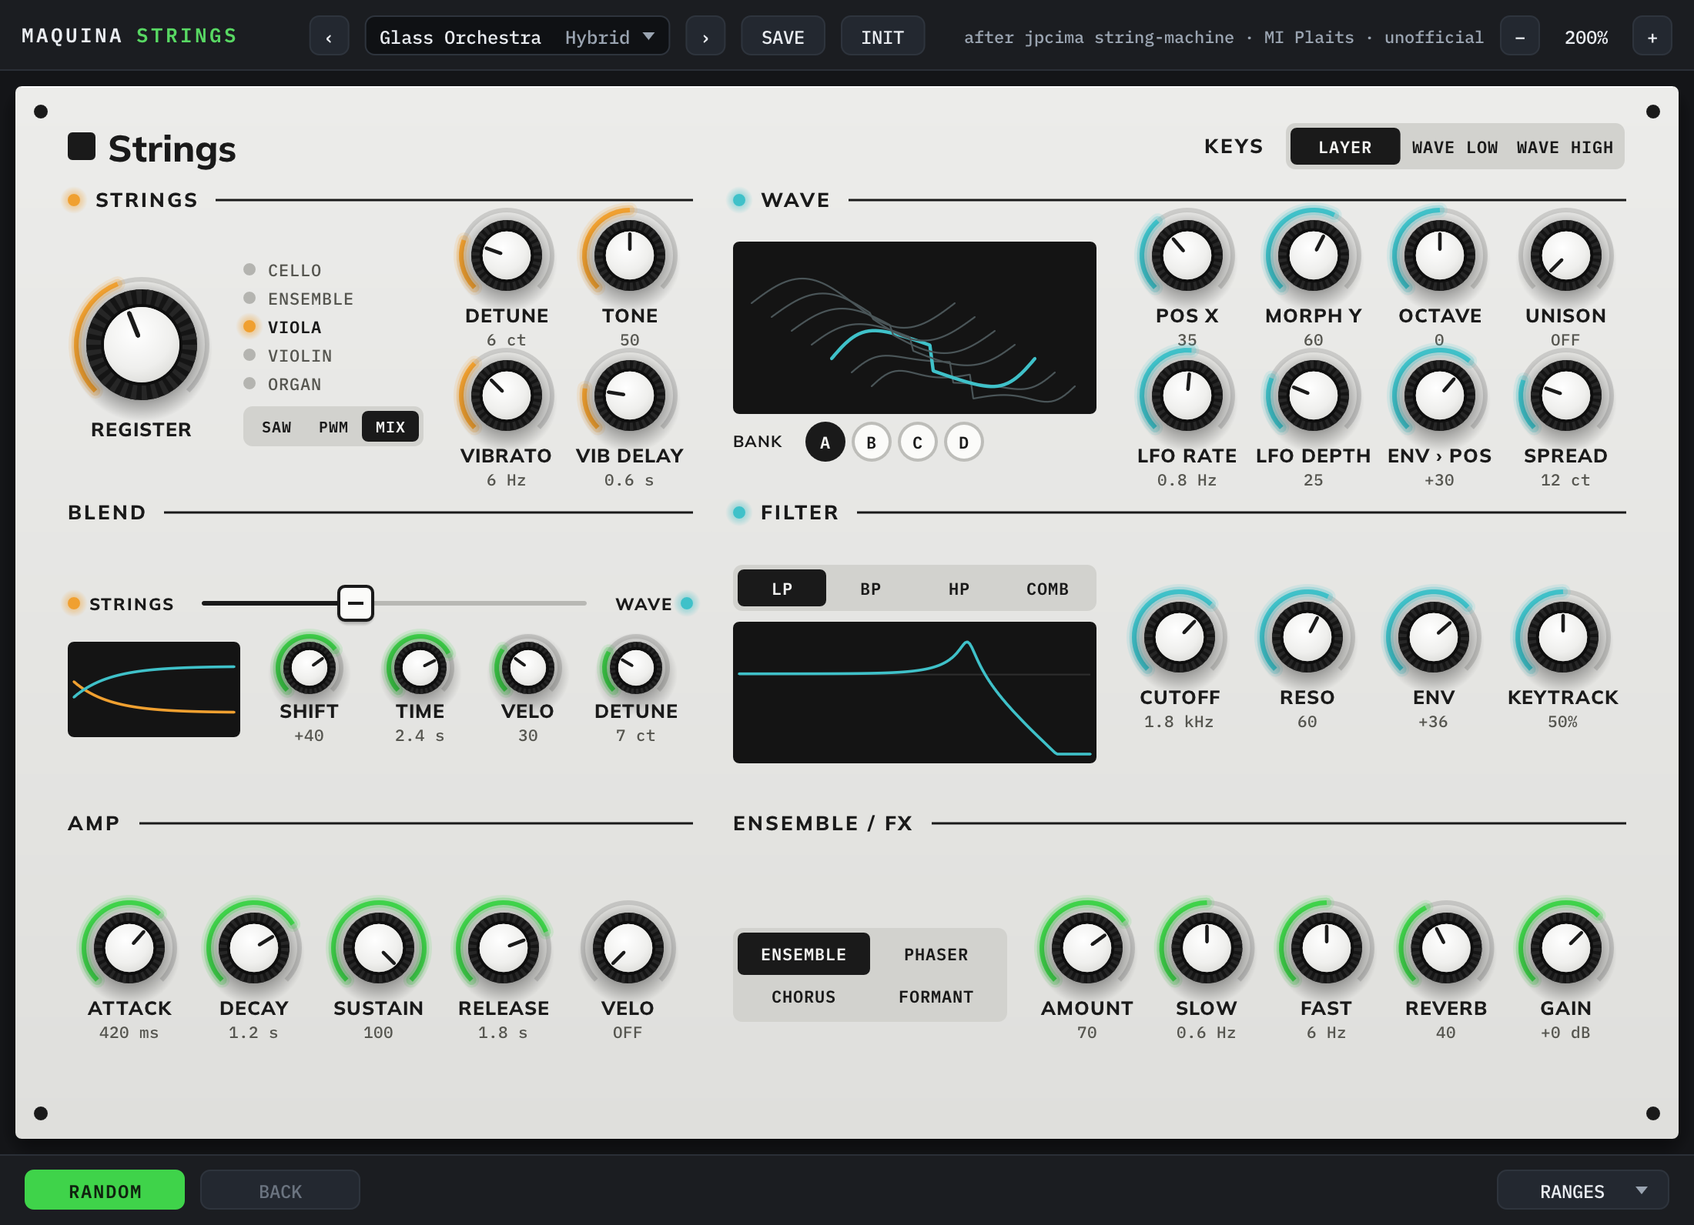
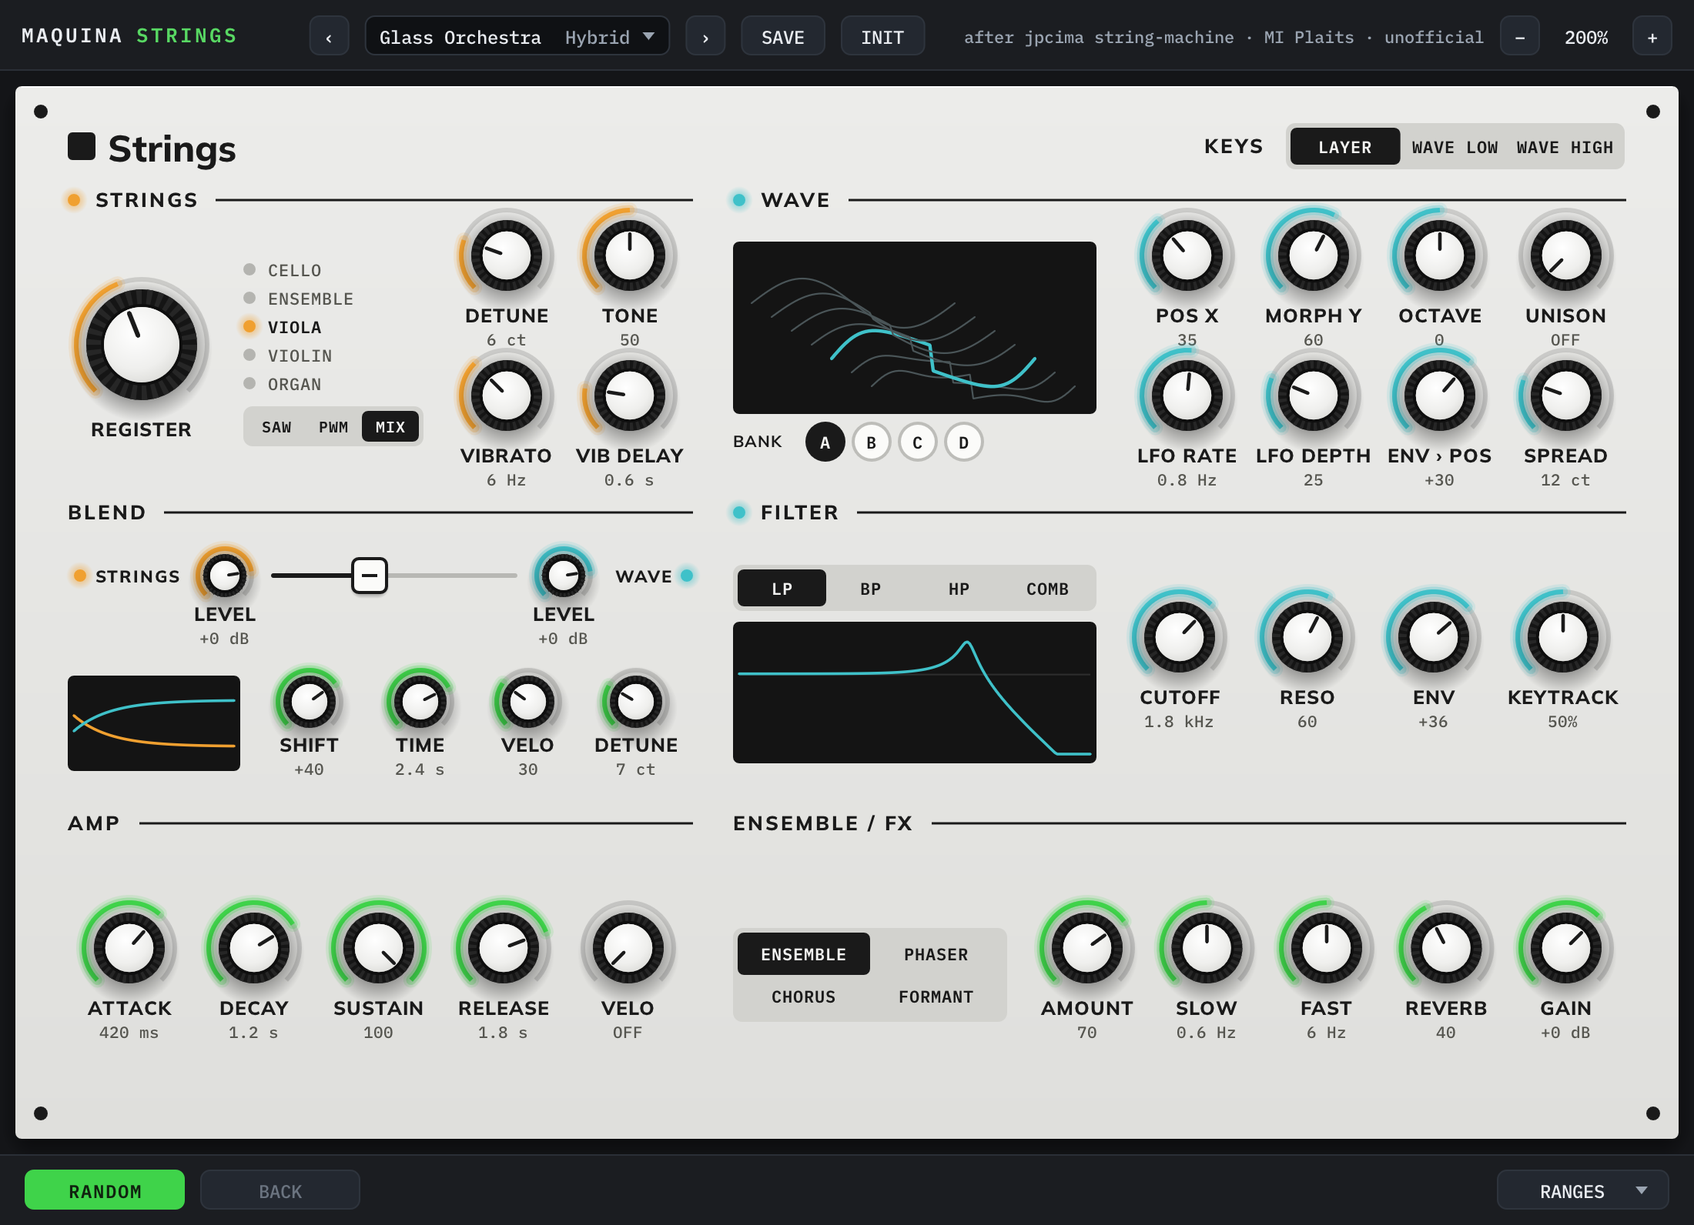
strings: mixer: a level and an on / off switch per layer
Before the blend, each layer has a LEVEL (-24..+6 dB, default 0) and
an on / off switch; a layer switched off is not computed (no CPU).

- parameters strings_on, strings_level, wave_on, wave_level (port group
  MIXER; Machinista / CLAP page MIXER). On / off are performance
  switches like Dredrum's mutes: not in presets, not randomized; the
  levels are a LEVELS randomizer group, locked by default
- editor: BLEND is the mixer row [* STRINGS] (level) === blend ===
  (level) [WAVE *]; the LEDs are the switches (lit = on), a layer's
  knob rings stop glowing while it is off; the blend display and its
  knobs moved down a little
- strings_test: a layer off is silent and never computed, its level
  scales it by exactly -12 dB

Changed region(s): [[0.0309, 0.4309, 0.4327, 0.6464]]

diff --git a/common/DrumUI.cpp b/common/DrumUI.cpp
@@ -159,6 +159,7 @@ bool stringsValueText(const VoiceParam& p, int iv, char* buf, size_t n)
         std::snprintf(buf, n, "%s s", num);
     };
     if (is("detune") || is("layer_detune") || is("wave_spread")) std::snprintf(buf, n, "%d ct", iv);
+    else if (is("strings_level") || is("wave_level")) std::snprintf(buf, n, "%+d dB", iv);
     else if (is("vibrato")) hz(su::vibratoHz(iv));
     else if (is("vib_delay")) { fmtTrim(num, sizeof num, su::vibDelaySeconds(iv), 1); std::snprintf(buf, n, "%s s", num); }
     else if (is("vib_depth") || is("velocity")) { if (iv <= 0) std::snprintf(buf, n, "OFF"); else std::snprintf(buf, n, "%d", iv); }
@@ -379,7 +380,9 @@ struct Ctl {
                           // at ax, ay), RoundSel = round letter buttons at xs[], Stations = REGISTER's
                           // station list (LEDs at ledX, rows from ay, 18.5 px apart), HFader =
                           // horizontal fader (track from ax, bw long, at ay)
-                          Seg, RoundSel, Stations, HFader } look = Plain;
+                          // LedLabel = an on / off switch drawn as an LED (ledX, ay) and its label (left
+                          // of the LED when labelX < 0, else from labelX)
+                          Seg, RoundSel, Stations, HFader, LedLabel } look = Plain;
     // Maquina Strings: the knob ring's LED colour (led = true) and a full-size label on small knobs
     Rgb ledRgb {};
     bool led = false, bigLabel = false;
@@ -1444,6 +1447,7 @@ protected:
             if (y >= y0 && y < y0 + c.bh) setValue(c.param, float(std::min(n - 1, cy * cols + cx)), true);
             return true;
         }
+        case Ctl::LedLabel: setValue(c.param, intOf(int(c.param)) ? 0.f : 1.f, true); return true;
         case Ctl::RoundSel:
             for (int k = 0; k < c.n; ++k)
                 if (std::fabs(x - c.xs[k]) <= 13) { setValue(c.param, float(k), true); return true; }
@@ -1506,6 +1510,15 @@ protected:
         if (!std::strcmp(sym, "filter_reso")) return "Feedback";
         return c.label;
     }
+    // Maquina Strings: a layer's knobs glow only while it is on (strings amber, wave + filter cyan)
+    bool layerLit(Rgb ring) const
+    {
+        if (!maquina::isStrings(voiceDef().voice)) return true;
+        static const int strOn = findParam("strings_on"), waveOn = findParam("wave_on");
+        if (ring.r == 0xf0 && ring.g == 0xa0 && strOn >= 0) return intOf(strOn) != 0;
+        if (ring.r == 0x3f && ring.g == 0xc1 && waveOn >= 0) return intOf(waveOn) != 0;
+        return true;
+    }
     // an 8 px LED (REGISTER's stations, section titles, the blend fader's ends)
     void drawSmallLed(float cx, float cy, bool on, Rgb c)
     {
@@ -1550,7 +1563,8 @@ protected:
         switch (c.look) {
         case Ctl::Plain: { // a knob
             const bool small = c.size < 45 && !c.bigLabel, left = c.labelX > 0;
-            drawKnobStyled(*this, T.knob, c.ax, c.ay, c.size, valueFraction(c.param), hot, c.led ? &c.ledRgb : nullptr);
+            drawKnobStyled(*this, T.knob, c.ax, c.ay, c.size, valueFraction(c.param), hot,
+                           c.led && layerLit(c.ledRgb) ? &c.ledRgb : nullptr);
             label(stringsLabel(c), left ? c.labelX : c.ax, c.labelY, small, left);
             if (c.valueY > 0) value(buf, left ? c.labelX : c.ax, c.valueY, left);
             break;
@@ -1623,6 +1637,20 @@ protected:
                 text(c.ledX + 12, y + 0.5f, t.c_str(), nullptr);
                 textLetterSpacing(0);
             }
+            break;
+        }
+        case Ctl::LedLabel: { // a layer's on / off: its LED lit when on
+            const bool on = intOf(int(c.param)) != 0;
+            drawSmallLed(c.ledX, c.ay, on, c.ledRgb);
+            std::string t = c.label ? c.label : "";
+            for (char& ch : t) ch = char(std::toupper(ch));
+            useFace(*this, "print");
+            fontPx(*this, 11);
+            textLetterSpacing(11 * 0.08f);
+            textAlign((c.labelX < 0 ? ALIGN_RIGHT : ALIGN_LEFT) | ALIGN_MIDDLE);
+            fillColor(col(on ? T.print : Rgb { 0x8d, 0x8d, 0x88 }));
+            text(c.labelX < 0 ? c.ledX - 10 : c.labelX, c.ay + 0.5f, t.c_str(), nullptr);
+            textLetterSpacing(0);
             break;
         }
         case Ctl::HFader: { // the blend fader: dark up to the cap, light after it

diff --git a/tools/strings_test/strings_test.cpp b/tools/strings_test/strings_test.cpp
@@ -4,6 +4,7 @@
 //   pitch       A4 is 440 Hz within 3 cents: strings (Viola), wave layer; 16' (Cello) sounds an
 //               octave down, OCTAVE +1 an octave up
 //   layers      BLEND 0 / 1 computes only that layer; KEYS WAVE LOW / HIGH split at C4
+//   mixer       a layer switched off is silent and not computed; its level scales it
 //   voices      at most 8; a released note ends
 //   vibrato     steady before VIB DELAY, moving after it
 //   fx          every effect mode and the reverb: finite, not silent
@@ -174,6 +175,50 @@ void layerChecks()
                                   : (hiWave && lo.blocksA() > 0 && lo.blocksB() == 0);
         check(ok, keys == 1 ? "layers: KEYS WAVE LOW" : "layers: KEYS WAVE HIGH", "C3 %s, C5 %s",
               loWave ? "wave" : "strings", hiWave ? "wave" : "strings");
+    }
+}
+
+// the mixer: a layer switched off is silent and not computed; its level scales it before the blend
+void mixerChecks()
+{
+    {
+        Engine e(1);
+        Params p = dry();
+        p.blend = 0.f;
+        p.stringsOn = false;
+        e.setParams(p);
+        e.noteOn(60, 100);
+        const std::vector<float> x = render(e, 0.2);
+        check(e.blocksA() == 0 && peakOf(x) == 0.0, "mixer: strings off", "%llu strings blocks, peak %g",
+              (unsigned long long)e.blocksA(), peakOf(x));
+    }
+    {
+        Engine e(1);
+        Params p = dry();
+        p.blend = 1.f;
+        p.waveOn = false;
+        e.setParams(p);
+        e.noteOn(60, 100);
+        const std::vector<float> x = render(e, 0.2);
+        check(e.blocksB() == 0 && peakOf(x) == 0.0, "mixer: wave off", "%llu wave blocks, peak %g",
+              (unsigned long long)e.blocksB(), peakOf(x));
+    }
+    for (int layer = 0; layer < 2; ++layer) {
+        auto rms = [&](float level) {
+            Engine e(1);
+            Params p = dry();
+            p.blend = layer ? 1.f : 0.f;
+            (layer ? p.waveLevel : p.stringsLevel) = level;
+            e.setParams(p);
+            e.noteOn(60, 100);
+            const std::vector<float> x = render(e, 0.5);
+            double s2 = 0;
+            for (size_t i = x.size() / 2; i < x.size(); ++i) s2 += double(x[i]) * x[i];
+            return std::sqrt(s2 / double(x.size() / 2));
+        };
+        const double db = 20.0 * std::log10(rms(std::pow(10.f, -12.f / 20.f)) / rms(1.f));
+        check(std::fabs(db + 12.0) < 0.1, layer ? "mixer: wave level -12 dB" : "mixer: strings level -12 dB",
+              "%+.2f dB", db);
     }
 }
 
@@ -348,6 +393,7 @@ int main()
 {
     pitchChecks();
     layerChecks();
+    mixerChecks();
     voiceChecks();
     vibratoCheck();
     fxChecks();

diff --git a/common/ui/Layouts.cpp b/common/ui/Layouts.cpp
@@ -448,25 +448,32 @@ void makeStrings(Layout& L)
             knob(kWave[row][k].sym, kWave[row][k].label, 771 + 82 * k, row ? 201 : 110, 46, kStrCyan);
 
     // ---- row 2: BLEND | FILTER
+    // BLEND, the mixer: [● STRINGS] (level) ═══ blend ═══ (level) [WAVE ●]; the LEDs switch the
+    // layers on / off (off: not computed), the levels act before the blend
     title(lx0, lx1, 277, "Blend", false, {});
     {
-        Deco a { Deco::Led, { 48, Y(336), 1, 0 }, "Strings" };
-        a.rgb = kStrAmber;
-        Deco b { Deco::Led, { 446, Y(336), -1, 0 }, "Wave" };
-        b.rgb = kStrCyan;
-        L.decos.push_back(a);
-        L.decos.push_back(b);
+        auto onOff = [&](const char* sym, const char* label, float ledX, float labelX, Box hit, Rgb rgb) {
+            const int p = findParam(sym);
+            if (p < 0) return;
+            Ctl c { uint32_t(p), CtlType::Toggle, label, hit.x, hit.y, hit.w, hit.h };
+            c.ay = Y(318); c.ledX = ledX; c.labelX = labelX; c.ledRgb = rgb; c.look = Ctl::LedLabel;
+            L.ctls.push_back(c);
+        };
+        onOff("strings_on", "Strings", 52, 62, { 44, Y(306), 80, 24 }, kStrAmber);
+        onOff("wave_on", "Wave", 446, -1, { 392, Y(306), 58, 24 }, kStrCyan);
+        knob("strings_level", "Level", 146, 318, 28, kStrAmber);
+        knob("wave_level", "Level", 366, 318, 28, kStrCyan);
         if (const int p = findParam("blend"); p >= 0) {
-            Ctl c { uint32_t(p), CtlType::Knob, nullptr, 120, Y(322), 272, 28 };
-            c.ax = 131; c.ay = Y(336); c.bw = 250; c.look = Ctl::HFader;
+            Ctl c { uint32_t(p), CtlType::Knob, nullptr, 168, Y(304), 176, 28 };
+            c.ax = 176; c.ay = Y(318); c.bw = 160; c.look = Ctl::HFader;
             L.ctls.push_back(c);
         }
     }
-    graph(GraphKind::BlendCurve, { lx0, Y(361), 112, 62 }, "blend", "blend_shift", "blend_time");
-    knob("blend_shift", "Shift", 201, 378, 34, kStrGreen);
-    knob("blend_time", "Time", 273, 378, 34, kStrGreen);
-    knob("blend_velo", "Velo", 343, 378, 34, kStrGreen);
-    knob("layer_detune", "Detune", 413, 378, 34, kStrGreen);
+    graph(GraphKind::BlendCurve, { lx0, Y(383), 112, 62 }, "blend", "blend_shift", "blend_time");
+    knob("blend_shift", "Shift", 201, 400, 34, kStrGreen);
+    knob("blend_time", "Time", 273, 400, 34, kStrGreen);
+    knob("blend_velo", "Velo", 343, 400, 34, kStrGreen);
+    knob("layer_detune", "Detune", 413, 400, 34, kStrGreen);
 
     title(rx0, rx1, 277, "Filter", true, kStrCyan);
     seg("filter_mode", { rx0, Y(311), 236, 30 }, 0, nullptr);

diff --git a/common/DrumPlugin.cpp b/common/DrumPlugin.cpp
@@ -136,11 +136,12 @@ static const char* const kLa50PageNames[8] = { "Patch", "Upper Common", "Upper P
                                                "Lower Common", "Lower Partial 1", "Lower Partial 2", "Mix" };
 static const char* const kLa50PageSymbols[8] = { "patch", "upper", "upper_p1", "upper_p2", "lower", "lower_p1",
                                                  "lower_p2", "mix" };
-// Maquina Strings: 8 groups of 4 + MORE (tools/gen_params.py STRINGS_PAGE_TITLES; Gain is on FX, page 7)
-static const char* const kStringsPageNames[9] = { "Strings", "Vibrato / Blend", "Wave", "Wave Mod", "Filter",
-                                                  "Motion", "Amp", "FX", "More" };
-static const char* const kStringsPageSymbols[9] = { "strings", "vibrato", "wave", "wave_mod", "filter",
-                                                    "motion", "amp", "fx", "more" };
+// Maquina Strings: 8 groups of 4 + MORE + MIXER (tools/gen_params.py STRINGS_PAGE_TITLES; Gain is on FX,
+// page 7)
+static const char* const kStringsPageNames[10] = { "Strings", "Vibrato / Blend", "Wave", "Wave Mod", "Filter",
+                                                   "Motion", "Amp", "FX", "More", "Mixer" };
+static const char* const kStringsPageSymbols[10] = { "strings", "vibrato", "wave", "wave_mod", "filter",
+                                                     "motion", "amp", "fx", "more", "mixer" };
 static bool isDredrum() { return voiceDef().voice == maquina::kDredrumVoice; }
 static bool isPlethora() { return voiceDef().voice == maquina::kPlethoraVoice; }
 static bool isOneiroi() { return maquina::isOneiroi(voiceDef().voice); }
@@ -251,8 +252,8 @@ protected:
             return;
         }
         if (isStrings()) {
-            group.name = kStringsPageNames[page % 9];
-            group.symbol = kStringsPageSymbols[page % 9];
+            group.name = kStringsPageNames[page % 10];
+            group.symbol = kStringsPageSymbols[page % 10];
             return;
         }
         if (isLa50()) {

diff --git a/common/VoiceTables.generated.hpp b/common/VoiceTables.generated.hpp
@@ -1050,6 +1050,8 @@ static const char* const k_strings_labels_7[] = { "Layer", "Wave Low", "Wave Hig
 static const char* const k_strings_labels_8[] = { "A", "B", "C", "D" };
 static const char* const k_strings_labels_16[] = { "LP", "BP", "HP", "Comb" };
 static const char* const k_strings_labels_28[] = { "Ensemble", "Phaser", "Chorus", "Formant" };
+static const char* const k_strings_labels_37[] = { "Off", "On" };
+static const char* const k_strings_labels_39[] = { "Off", "On" };
 static const VoiceParam k_strings_params[] = {
     { "register", "Register", 0, 0, ParamKind::Int, 0, 0, 100, nullptr, 0, nullptr, 42 },
     { "shape", "Shape", 0, 0, ParamKind::Enum, 0, 0, 2, k_strings_labels_1, 3, nullptr, 2 },
@@ -1088,6 +1090,10 @@ static const VoiceParam k_strings_params[] = {
     { "fx_fast", "FX Fast", 8, 0, ParamKind::Int, 0, 0, 60, nullptr, 0, nullptr, 30 },
     { "wave_unison", "Unison", 8, 0, ParamKind::Int, 1, 0, 3, nullptr, 0, nullptr, 1 },
     { "wave_spread", "Spread", 8, 0, ParamKind::Int, 0, 0, 50, nullptr, 0, nullptr, 12 },
+    { "strings_on", "Strings", 9, 0, ParamKind::Toggle, 0, 0, 1, k_strings_labels_37, 2, nullptr, 1 },
+    { "strings_level", "Str Level", 9, 0, ParamKind::Int, -24, 0, 30, nullptr, 0, nullptr, 0 },
+    { "wave_on", "Wave", 9, 0, ParamKind::Toggle, 0, 0, 1, k_strings_labels_39, 2, nullptr, 1 },
+    { "wave_level", "Wav Level", 9, 0, ParamKind::Int, -24, 0, 30, nullptr, 0, nullptr, 0 },
 };
 
 static const VoiceDef k_voices[] = {

diff --git a/tools/gen_params.py b/tools/gen_params.py
@@ -693,7 +693,7 @@ STRINGS_VOICE = 28
 # port groups (LV2 / Zynthian: 8 groups of 4 + MORE; common/DrumPlugin.cpp kStringsPageNames).
 # Page 7 holds the extra Gain (ExtraParams.hpp), so FX is page 7.
 STRINGS_PAGE_TITLES = {0: "STRINGS", 1: "VIBRATO / BLEND", 2: "WAVE", 3: "WAVE MOD", 4: "FILTER", 5: "MOTION",
-                       6: "AMP", 7: "FX", 8: "MORE"}
+                       6: "AMP", 7: "FX", 8: "MORE", 9: "MIXER"}
 # log-mapped parameters (stringmachine/strings/engine/StringsUnits.hpp): lo, default, hi; 127 steps
 # bending at the default (the knee)
 STRINGS_LOG = {"wave_lfo_rate": (0.05, 0.8, 10.0), "filter_cutoff": (20.0, 1800.0, 18000.0),
@@ -764,6 +764,12 @@ def strings_params():
     # the wave layer's unison: voices per note (1 = off) and their detune spread
     p("wave_unison", "Unison", 8, "Int", 1, 3, 1)      # 1 .. 4 voices
     p("wave_spread", "Spread", 8, "Int", 12, 50)       # cents
+    # MIXER: each layer's level before the blend, and on / off (off: not computed; performance
+    # switches like Dredrum's mutes: not in presets, not randomized)
+    p("strings_on", "Strings", 9, "Toggle", 1, 1, labels=["Off", "On"])
+    p("strings_level", "Str Level", 9, "Int", 0, 30, -24)   # dB
+    p("wave_on", "Wave", 9, "Toggle", 1, 1, labels=["Off", "On"])
+    p("wave_level", "Wav Level", 9, "Int", 0, 30, -24)      # dB
     for q in params:
         q.update(par="0", fwmin=0, modtargets=None)
         if len(q["short"]) > MAX_SHORT_NAME:

diff --git a/stringmachine/strings/engine/StringsHost.cpp b/stringmachine/strings/engine/StringsHost.cpp
@@ -26,7 +26,8 @@ const char* const kSymbols[] = { "register", "shape", "detune", "tone", "vibrato
                                  "wave_env_pos", "layer_detune", "wave_unison", "wave_spread", "filter_mode",
                                  "filter_cutoff", "filter_reso", "filter_env", "filter_keytrack", "blend",
                                  "blend_shift", "blend_time", "blend_velo", "keys", "attack", "decay", "sustain",
-                                 "release", "velocity", "fx_mode", "fx_amount", "fx_slow", "fx_fast", "reverb" };
+                                 "release", "velocity", "fx_mode", "fx_amount", "fx_slow", "fx_fast", "reverb",
+                                 "strings_on", "strings_level", "wave_on", "wave_level" };
 
 } // namespace
 
@@ -132,6 +133,10 @@ strings::Params StringsHost::engineParams() const
     p.fxSlowHz = su::fxSlowHz(v(kFxSlow));
     p.fxFastHz = su::fxFastHz(v(kFxFast));
     p.reverb = pct(kReverb);
+    p.stringsOn = fIx[kStringsOn] < 0 || v(kStringsOn) != 0;
+    p.waveOn = fIx[kWaveOn] < 0 || v(kWaveOn) != 0;
+    p.stringsLevel = std::pow(10.f, float(v(kStringsLevel)) / 20.f); // dB
+    p.waveLevel = std::pow(10.f, float(v(kWaveLevel)) / 20.f);
     return p;
 }
 

diff --git a/stringmachine/strings/engine/StringsEngine.hpp b/stringmachine/strings/engine/StringsEngine.hpp
@@ -10,7 +10,8 @@
 //   LP / BP / HP (stmlib's state variable filter) or COMB (a keytracked feedback delay).
 //   Blend: per voice, from BLEND, moved by SHIFT over TIME after the note-on and by velocity;
 //   equal-power. KEYS LAYER plays both; WAVE LOW / WAVE HIGH split the keyboard at C4.
-//   A layer at zero level for a whole block is not computed.
+//   Mixer: each layer's level and on / off before the blend.
+//   A layer at zero level (or off) for a whole block is not computed.
 //   Effects: ENSEMBLE (string-machine's Solina chorus, digital delays), PHASER, CHORUS or
 //   FORMANT, then a reverb (Rings').
 //
@@ -56,6 +57,9 @@ struct Params {
     int keys = 0;             // 0 layer, 1 wave low, 2 wave high
     // amp
     float attack = 0.42f, decay = 1.2f, sustain = 1, release = 1.8f, velocity = 0; // s, 0..1
+    // mixer: each layer before the blend (off: not computed)
+    bool stringsOn = true, waveOn = true;
+    float stringsLevel = 1, waveLevel = 1; // linear
     // effects
     int fxMode = 0;           // 0 ensemble, 1 phaser, 2 chorus, 3 formant
     float fxAmount = 0.7f, fxSlowHz = 0.6f, fxFastHz = 6, reverb = 0.4f;

diff --git a/tools/check_random/check_random.cpp b/tools/check_random/check_random.cpp
@@ -86,6 +86,9 @@ int main()
                                  : maquina::isMutable(d.voice) ? p.page == 7 || !std::strcmp(p.symbol, "note_source")
                                  // Acida: the accent threshold (how notes are played)
                                  : maquina::isAcida(d.voice) ? !std::strcmp(p.symbol, "accent_vel")
+                                 // Strings: the layers' on / off switches (performance, as Dredrum's mutes)
+                                 : maquina::isStrings(d.voice) ? p.page == 7 || !std::strcmp(p.symbol, "strings_on") ||
+                                                                     !std::strcmp(p.symbol, "wave_on")
                                  : maquina::hasChannels(d.voice)
                                      ? !std::strcmp(p.symbol, "trig_mode") || std::strstr(p.symbol, "_mute") != nullptr
                                      : p.page == 7;

diff --git a/common/Randomizer.hpp b/common/Randomizer.hpp
@@ -59,6 +59,7 @@ static const RandGroup kRandGroups[] = {
     { "samp", "AMP", true, 0, 100, { "attack", "decay", "sustain", "release", "velocity" }, kStringsVoice },
     { "sfx", "FX", true, 0, 100, { "fx_mode", "fx_amount", "fx_slow", "fx_fast", "reverb" }, kStringsVoice },
     { "skeys", "KEYS", true, 0, 100, { "keys", "wave_octave" }, kStringsVoice },
+    { "slevel", "LEVELS", true, 0, 100, { "strings_level", "wave_level" }, kStringsVoice },
     { "osc", "OSC", false, 0, 100,
       { "osc_coarse", "osc_fine", "osc_wave", "osc_pwm", "noise_freq", "noise_mix", "fm_amount", "fm_freq",
         "fm_wave", "fm_mode", "mod1_freq", "mod1_gain", "mod1_wave", "mod2_freq", "mod2_gain", "mod2_wave" } },

diff --git a/stringmachine/strings/engine/StringsEngine.cpp b/stringmachine/strings/engine/StringsEngine.cpp
@@ -436,8 +436,14 @@ struct Engine::Impl {
             }
     }
 
-    // the layers' gains of a voice now (0..1 each)
+    // the layers' gains of a voice now: the blend (or the split) times the mixer's level / on
     void layerGains(const Voice& v, float& gA, float& gB) const
+    {
+        blendGains(v, gA, gB);
+        gA = p.stringsOn ? gA * p.stringsLevel : 0.f;
+        gB = p.waveOn ? gB * p.waveLevel : 0.f;
+    }
+    void blendGains(const Voice& v, float& gA, float& gB) const
     {
         if (p.keys != 0) { // a split: each key plays one layer
             const bool waveKey = p.keys == 1 ? v.note < kSplitKey : v.note >= kSplitKey;

diff --git a/common/RemotePages.generated.hpp b/common/RemotePages.generated.hpp
@@ -128,6 +128,7 @@ static const ClapRemotePage k_strings_remote_pages[] = {
     { "FILTER / BLEND", { "filter_mode", "filter_cutoff", "filter_reso", "filter_env", "filter_keytrack", "blend_shift", "blend_time", "blend_velo" } },
     { "AMP / FX", { "attack", "decay", "sustain", "release", "fx_mode", "fx_amount", "reverb", "gain" } },
     { "VIBRATO / MORE", { "vibrato", "vib_depth", "vib_delay", "velocity", "fx_slow", "fx_fast", "wave_unison", "wave_spread" } },
+    { "MIXER", { "strings_on", "strings_level", "wave_on", "wave_level", "blend", "keys", "layer_detune", "gain" } },
 };
 
 static const ClapRemotePages k_remote_pages[] = {
